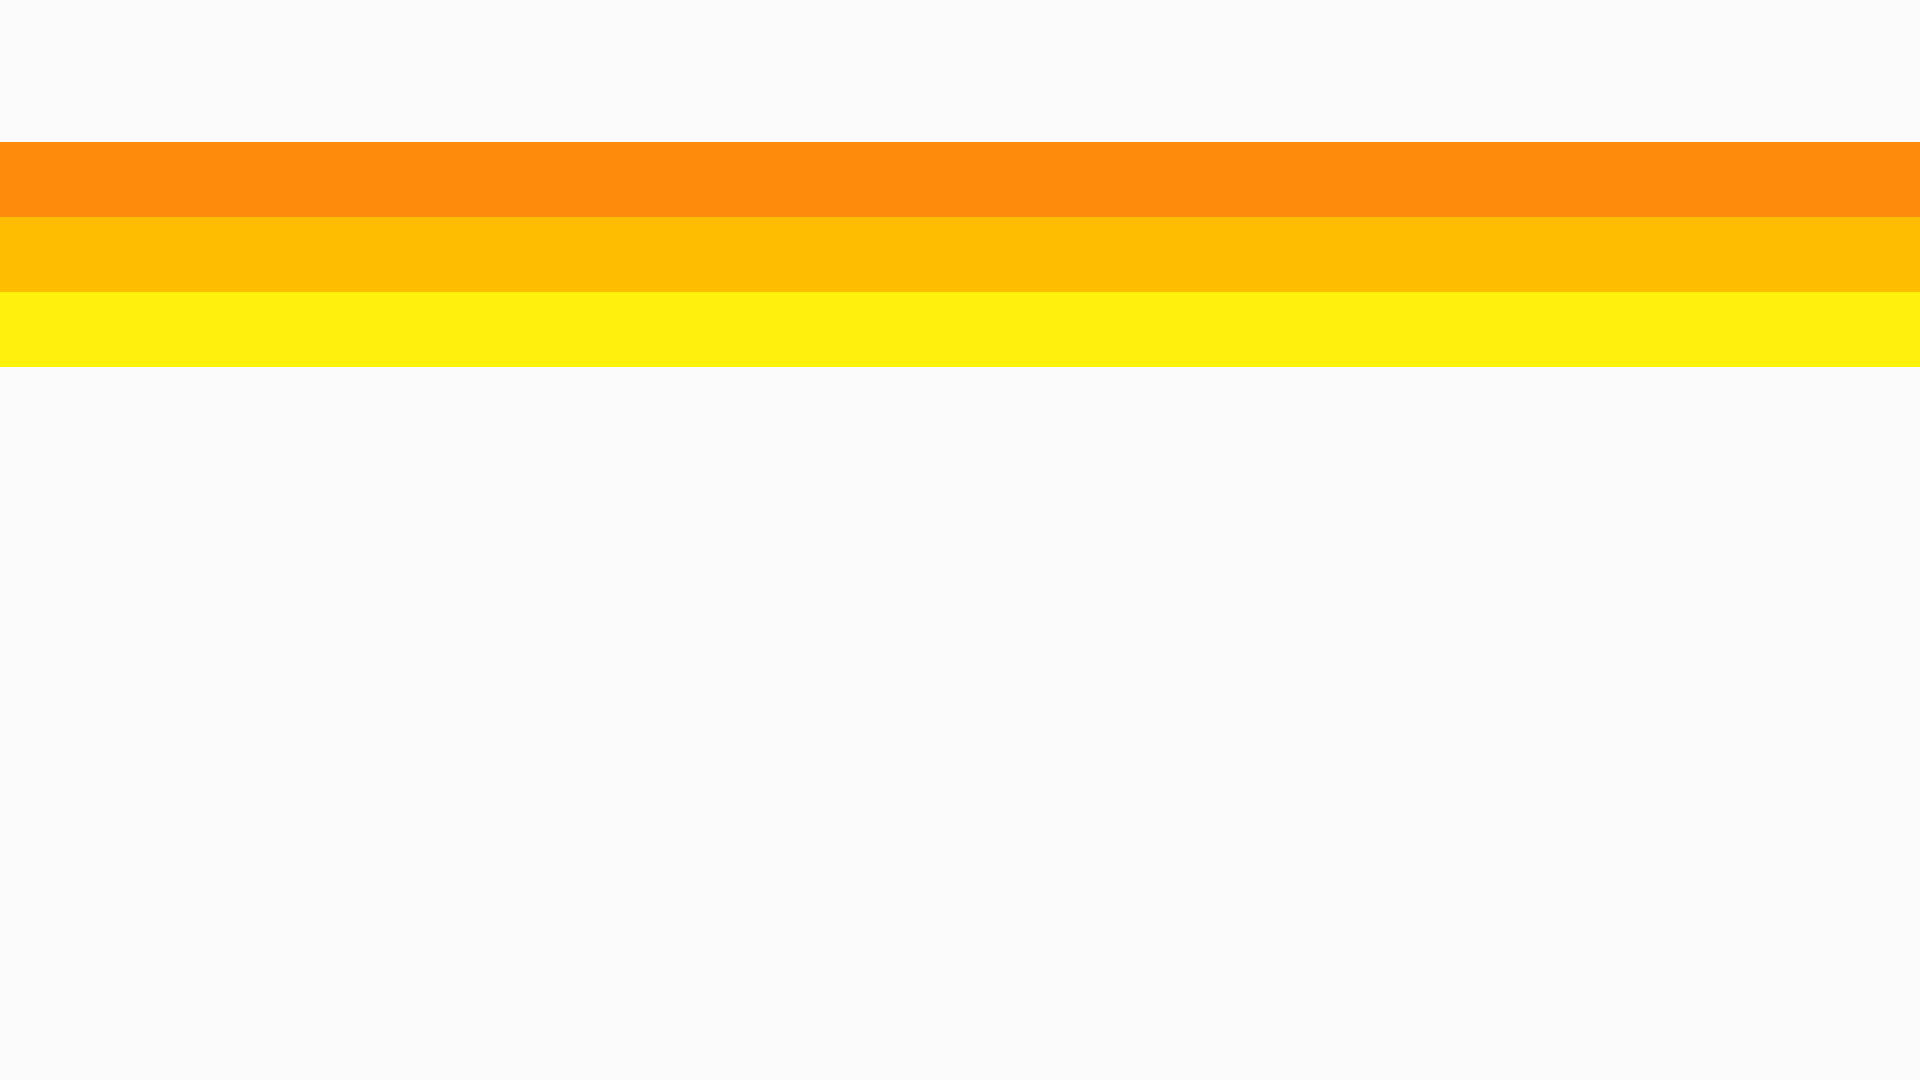
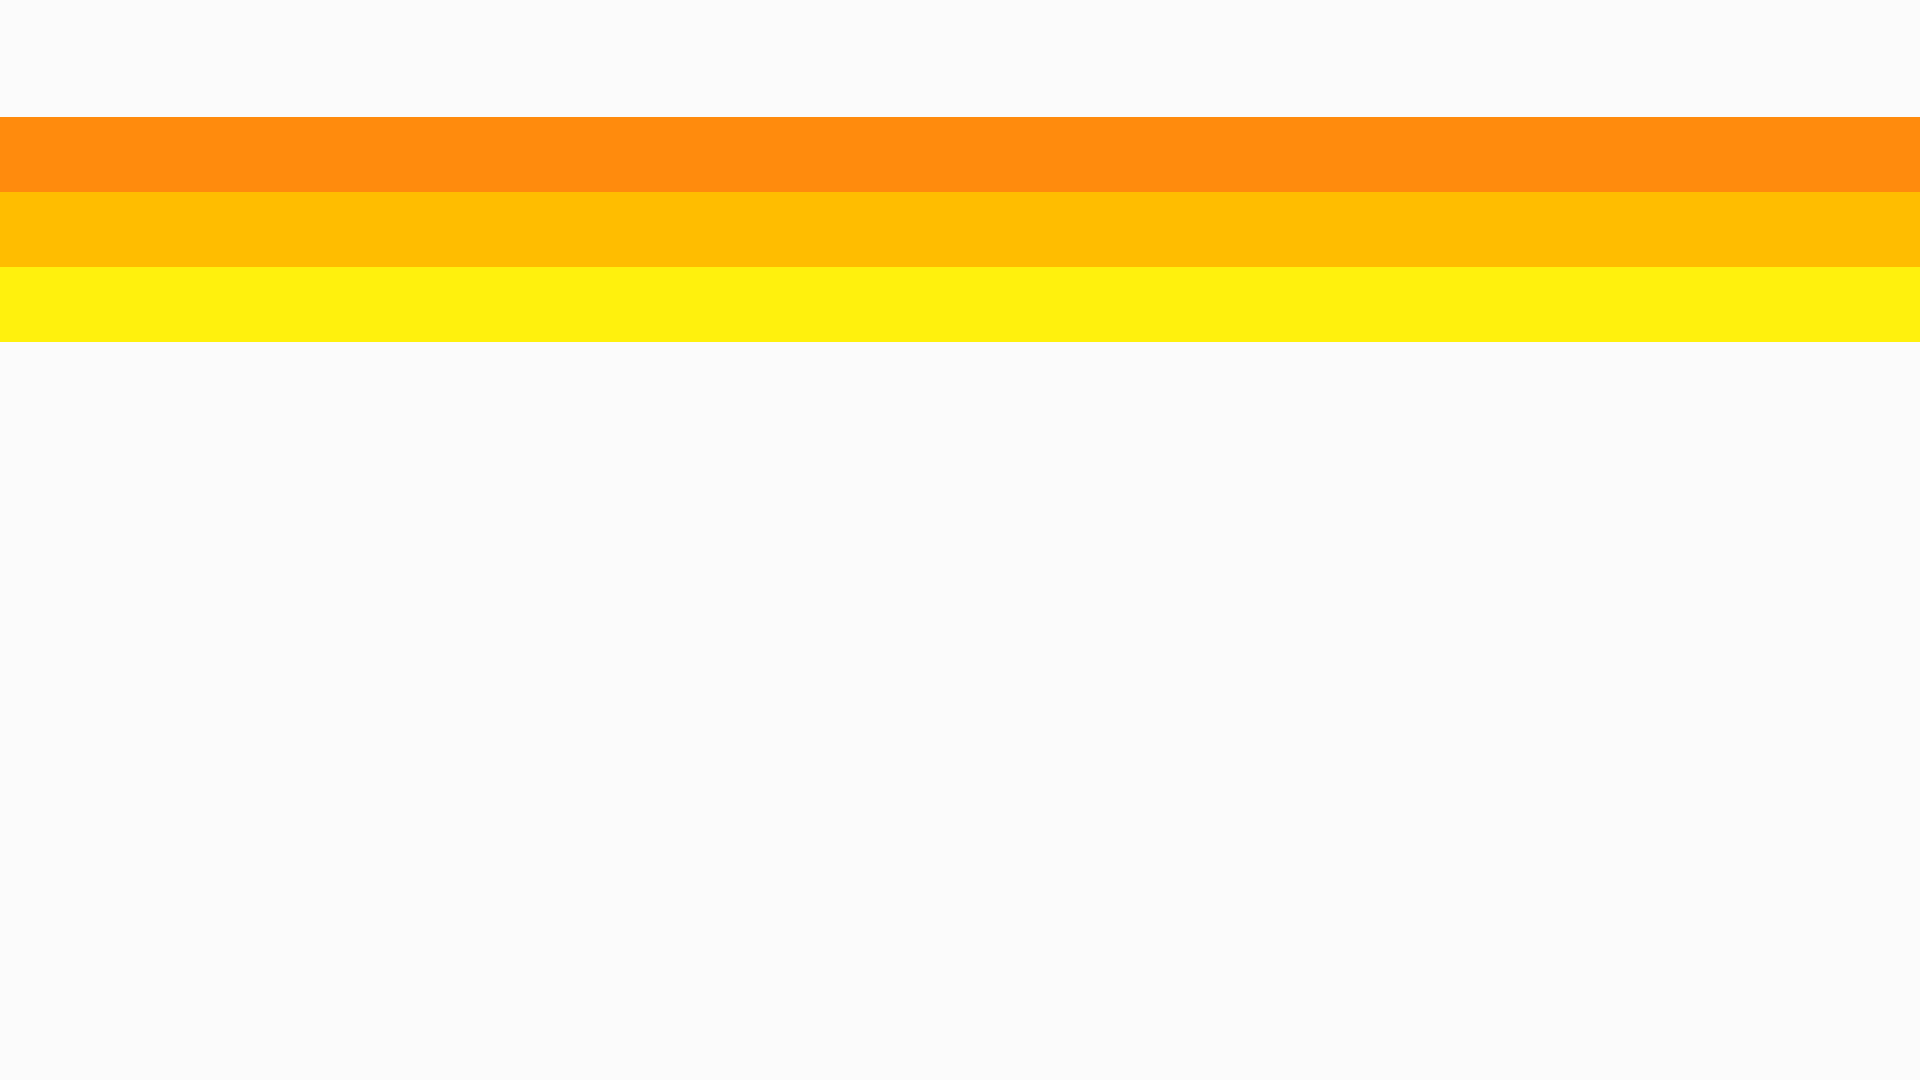
BG update

Changed region(s): [[0.0, 0.0917, 1.0, 0.2139], [0.0, 0.3056, 1.0, 0.3667], [0.0, 0.2444, 1.0, 0.275]]

diff --git a/css/quinton.css b/css/quinton.css
@@ -227,17 +227,9 @@ header.masthead {
 	text-align: center;
 	color: var(--color-headings);
 	background-image: url("../img/bg.png");
-	background-repeat: no-repeat;
-	background-attachment: scroll;
-	background-position: center center;
-	-webkit-background-size: cover;
-	-moz-background-size: cover;
-	-o-background-size: cover;
-	background-size: cover;	
-	height: -webkit-fill-available;
 }
 header.masthead .intro-text {
-	padding-top: 100px;
+	padding-top: 150px;
 	padding-bottom: 0px;
 }
 header.masthead .intro-img {
@@ -256,15 +248,24 @@ header.masthead .intro-text .intro-heading {
 	font-weight: 400;
 	font-style: italic;
 	line-height: var(--heading-line-height);
-	margin-bottom: 25px;
+	margin-bottom: 30px;
 	font-family: var(--font-primary);
 }
 @media (min-width: 768px) {
 	header.masthead {
+		color: var(--color-headings);
+		background-image: url("../img/bg.png");
+		background-repeat: no-repeat;
+		background-attachment: scroll;
+		background-position: center center;
+		-webkit-background-size: cover;
+		-moz-background-size: cover;
+		-o-background-size: cover;
+		background-size: cover;	
 		height: -webkit-fill-available;
 	}
 	header.masthead .intro-text {
-		padding-top: 350px;
+		padding-top: 300px;
 		padding-bottom: 350px;
 	}
 	header.masthead .intro-img {
